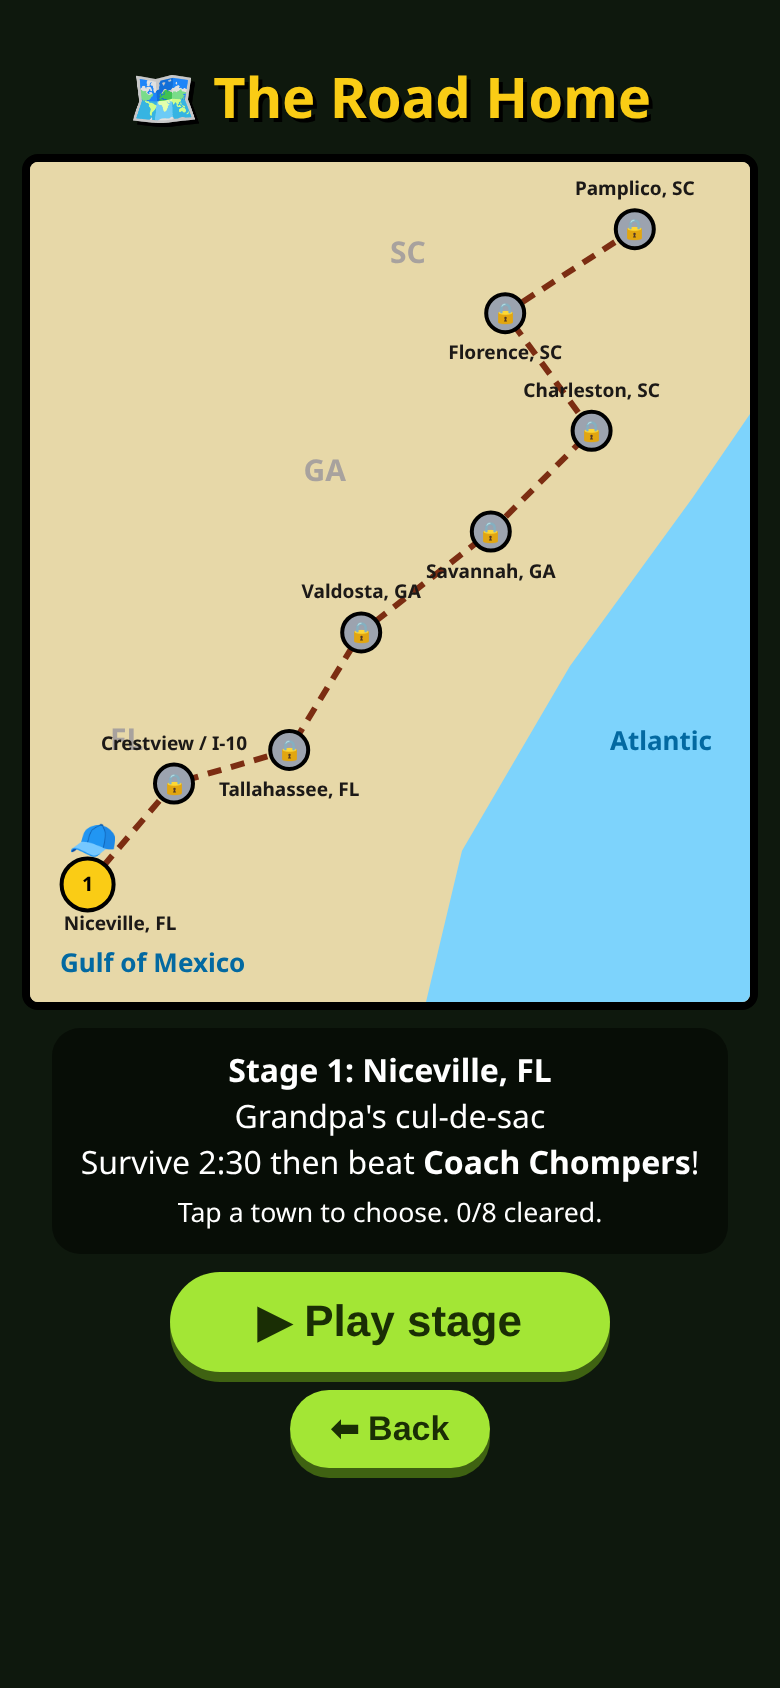
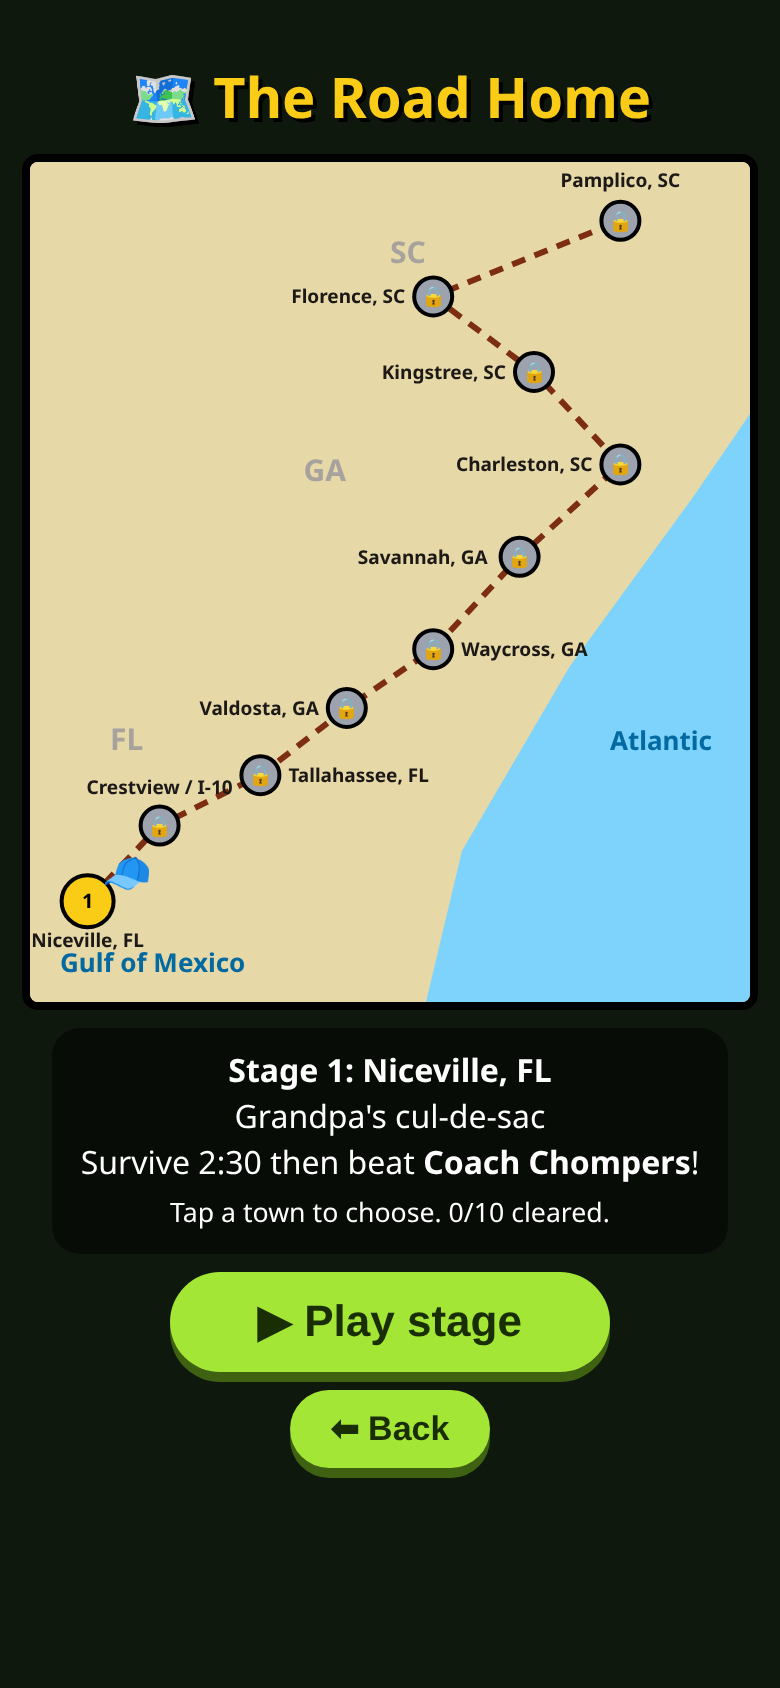
10 stages: add Waycross & Kingstree, save migration, SW v2

diff --git a/game.js b/game.js
@@ -10,6 +10,7 @@ let save=LS.get("save",{coins:0,heroes:["remy"],hero:"remy",shop:{},stage:0,clea
 const persist=()=>LS.set("save",save);
 const DIFF={easy:{n:"🌱 Easy",hp:.7,dmg:.6,spd:.9,sp:.75,coin:1},medium:{n:"🌟 Medium",hp:1,dmg:1,spd:1,sp:1,coin:1.3},hard:{n:"🔥 Hard",hp:1.45,dmg:1.35,spd:1.1,sp:1.25,coin:1.7},brutal:{n:"💀 Brutal",hp:2.1,dmg:1.8,spd:1.2,sp:1.6,coin:2.5}};
 if(!save.diff)save.diff="medium";if(!save.prog)save.prog={};
+if((save.ver||1)<2){const M=[0,1,2,3,5,6,8,9];for(const k in save.prog){const p=save.prog[k],c=p.cleared.map(i=>M[i]);if(c.includes(5))c.push(4);if(c.includes(8))c.push(7);p.cleared=[...new Set(c)];p.stage=M[p.stage]??0}save.ver=2;LS.set("save",save)}
 function prog(){return save.prog[save.diff]||(save.prog[save.diff]={stage:0,cleared:[]})}
 const DF=()=>DIFF[(G&&G.df)||save.diff];
 
@@ -29,14 +30,18 @@ function sfx(n){if(save.mute||!AC)return;const now=performance.now();if(lastS[n]
 
 // ===== Data =====
 const STAGES=[
- {n:"Niceville, FL",s:"Grandpa's cul-de-sac",g:"#3f6b35",d:"#35602d",x:.08,y:.86,boss:"Coach Chompers",tm:150},
- {n:"Crestview / I-10",s:"Traffic jam of the undead",g:"#5b5f55",d:"#4f534a",x:.2,y:.74,boss:"Big Rig Randy",tm:170},
- {n:"Tallahassee, FL",s:"Campus of the Living Dead",g:"#4d7a3a",d:"#426b31",x:.36,y:.70,boss:"Professor Brainsworth",tm:180},
- {n:"Valdosta, GA",s:"Peach orchard panic",g:"#6b7d33",d:"#5d6e2b",x:.46,y:.56,boss:"The Peach Fuzz Monster",tm:190},
- {n:"Savannah, GA",s:"Haunted squares (extra haunted)",g:"#3e5e4a",d:"#344f3e",x:.64,y:.44,boss:"Captain Moss-beard",tm:200},
- {n:"Charleston, SC",s:"Rainbow Row rumble",g:"#4a6b6b",d:"#3f5c5c",x:.78,y:.32,boss:"Shrimp & Grits Goliath",tm:210},
- {n:"Florence, SC",s:"Interstate truck-stop terror",g:"#5a6e3d",d:"#4d5f34",x:.66,y:.18,boss:"Mega Mall Santa",tm:220},
- {n:"Pamplico, SC",s:"HOME. Mom, Dad & Leo are inside!",g:"#3b6e2c",d:"#325e25",x:.84,y:.08,boss:"The Mayor of Zombietown",tm:240}];
+ {n:"Niceville, FL",s:"Grandpa's cul-de-sac",g:"#3f6b35",d:"#35602d",x:.08,y:.88,boss:"Coach Chompers",tm:150,deco:"grave"},
+ {n:"Crestview / I-10",s:"Traffic jam of the undead",g:"#5b5f55",d:"#4f534a",x:.18,y:.79,boss:"Big Rig Randy",tm:160,deco:"road"},
+ {n:"Tallahassee, FL",s:"Campus of the Living Dead",g:"#4d7a3a",d:"#426b31",x:.32,y:.73,boss:"Professor Brainsworth",tm:170,deco:"grave"},
+ {n:"Valdosta, GA",s:"Peach orchard panic",g:"#6b7d33",d:"#5d6e2b",x:.44,y:.65,boss:"The Peach Fuzz Monster",tm:180,deco:"peach"},
+ {n:"Waycross, GA",s:"Okefenokee Swamp stomp",g:"#3a5a3a",d:"#2f4a30",x:.56,y:.58,boss:"Swamp Thang the Gator King",tm:190,deco:"swamp"},
+ {n:"Savannah, GA",s:"Haunted squares (extra haunted)",g:"#3e5e4a",d:"#344f3e",x:.68,y:.47,boss:"Captain Moss-beard",tm:200,deco:"grave"},
+ {n:"Charleston, SC",s:"Rainbow Row rumble",g:"#4a6b6b",d:"#3f5c5c",x:.82,y:.36,boss:"Shrimp & Grits Goliath",tm:210,deco:"rainbow"},
+ {n:"Kingstree, SC",s:"Tobacco barn throwdown",g:"#7a6a3a",d:"#6a5b30",x:.70,y:.25,boss:"The Burger King-stree",tm:220,deco:"barn"},
+ {n:"Florence, SC",s:"Interstate truck-stop terror",g:"#5a6e3d",d:"#4d5f34",x:.56,y:.16,boss:"Mega Mall Santa",tm:230,deco:"road"},
+ {n:"Pamplico, SC",s:"HOME. Mom, Dad & Leo are inside!",g:"#3b6e2c",d:"#325e25",x:.82,y:.07,boss:"The Mayor of Zombietown",tm:240,deco:"grave"}];
+const LAST=STAGES.length-1;
+[[0, 46, "center"], [0, -32, "center"], [28, 7, "left"], [-28, 7, "right"], [28, 7, "left"], [-32, 7, "right"], [-28, 7, "right"], [-28, 7, "right"], [-28, 7, "right"], [0, -34, "center"]].forEach((l,i)=>STAGES[i].lab=l);
 const W8={ // weapons
  chicken:{n:"Rubber Chicken Launcher",i:"🐔",d:"Fires squeaky chickens at the closest zombie.",f:"\"BAWK!\" — Grandpa's secret weapon.",evo:"spicy",en:"Rotisserie Rocket Rooster",ei:"🍗",ef:"Chickens now EXPLODE. Grandpa would be so proud."},
  banana:{n:"Banana Boomerang",i:"🍌",d:"Bananas swing out, smack everything, and come back.",f:"Potassium-powered justice.",evo:"sneakers",en:"Banana Split-nado",ei:"🍨",ef:"Six bananas. Zero chill."},
@@ -82,7 +87,7 @@ function shopLv(k){return save.shop[k]||0}
 function newRun(mode){const h=HEROES[save.hero];const st=mode==="journey"?prog().stage:-1;
  G={mode,stage:st,t:0,kills:0,lvl:1,xp:0,xpN:6,coins:0,shake:0,spawnAcc:0,bossN:0,bossAlive:null,nextBoss:st>=0?STAGES[st].tm:150,won:false,revive:shopLv("rev")>0,
   p:{x:0,y:0,r:14,hp:0,maxHp:h.hp+shopLv("hp")*10,spd:h.spd*(1+shopLv("spd")*.04),armor:h.armor||0,inv:0,face:1,dx:1,dy:0,walk:0},
-  w:{},ps:{},order:[],banner:null,bannerT:0,dmgMul:1+shopLv("dmg")*.06,magBase:1+shopLv("mag")*.15,hero:save.hero,diff:st>=0?1+st*.22:1,df:save.diff};
+  w:{},ps:{},order:[],banner:null,bannerT:0,dmgMul:1+shopLv("dmg")*.06,magBase:1+shopLv("mag")*.15,hero:save.hero,diff:st>=0?1+st*.17:1,df:save.diff};
  G.p.hp=G.p.maxHp;for(const k in ent)ent[k].length=0;addWeapon(h.w);
  G.banner=st>=0?"📍 "+STAGES[st].n:"♾ Endless Mode";G.bannerT=3}
 function stat(){const p=G.ps,h=HEROES[G.hero];return{dmg:G.dmgMul*(1+.12*(p.spicy||0)),spd:1+.1*(p.sneakers||0),mag:70*G.magBase*(1+.35*(p.tinfoil||0)),regen:.5*(p.catfood||0),
@@ -128,17 +133,23 @@ function buildSprites(){
   g.fillStyle="#dc2626";g.beginPath();g.moveTo(c-8,c-2);g.lineTo(c,c-16);g.lineTo(c+8,c-2);g.closePath();g.fill();g.stroke();g.fillStyle="#000";g.fillRect(c-3,c-2,2,2);g.fillRect(c+1,c-2,2,2)});
  // ground tiles per stage
  STAGES.forEach((s,i)=>{const t=document.createElement("canvas");t.width=t.height=160;const g=t.getContext("2d");g.fillStyle=s.g;g.fillRect(0,0,160,160);g.fillStyle=s.d;for(let j=0;j<40;j++){g.fillRect(Math.random()*160,Math.random()*160,3,6)}
-  g.fillStyle="#0002";g.beginPath();g.arc(40,120,9,0,7);g.fill();if(i===1||i===6){g.fillStyle="#ddd8";g.fillRect(0,78,160,4);for(let x=0;x<160;x+=40)g.fillRect(x,40,20,3)}
-  if(i%2===0){g.fillStyle="#9ca3af";g.fillRect(110,30,14,18);g.beginPath();g.arc(117,30,7,Math.PI,0);g.fill();g.fillStyle="#0005";g.fillRect(114,34,6,2)}SPR["g"+i]=t})}
+  g.fillStyle="#0002";g.beginPath();g.arc(40,120,9,0,7);g.fill();const D=s.deco;
+  if(D==="road"){g.fillStyle="#ddd8";g.fillRect(0,78,160,4);for(let x=0;x<160;x+=40)g.fillRect(x,40,20,3)}
+  if(D==="grave"){g.fillStyle="#9ca3af";g.fillRect(110,30,14,18);g.beginPath();g.arc(117,30,7,Math.PI,0);g.fill();g.fillStyle="#0005";g.fillRect(114,34,6,2)}
+  if(D==="peach"){g.fillStyle="#fb923c";for(const[x,y]of[[30,30],[120,100],[70,140]]){g.beginPath();g.arc(x,y,6,0,7);g.fill()}g.fillStyle="#4d7c0f";g.fillRect(118,92,4,4)}
+  if(D==="swamp"){g.fillStyle="#1e3a3a";g.beginPath();g.ellipse(50,50,34,18,0,0,7);g.ellipse(125,125,24,13,0,0,7);g.fill();g.fillStyle="#65a30d";g.beginPath();g.arc(42,46,5,0,7);g.arc(60,55,4,0,7);g.fill();g.strokeStyle="#4b3621";g.lineWidth=3;g.beginPath();g.moveTo(130,20);g.lineTo(130,55);g.moveTo(130,30);g.lineTo(140,22);g.stroke()}
+  if(D==="rainbow"){["#f9a8d4","#fde68a","#a5f3fc","#bbf7d0"].forEach((c,j)=>{g.fillStyle=c+"55";g.fillRect(j*40,0,40,12)})}
+  if(D==="barn"){g.fillStyle="#991b1b";g.fillRect(100,30,34,24);g.beginPath();g.moveTo(96,30);g.lineTo(117,14);g.lineTo(138,30);g.fill();g.fillStyle="#fef3c7";g.fillRect(113,40,8,14);g.fillStyle="#d9b25a";g.fillRect(30,110,18,12)}
+  SPR["g"+i]=t})}
 
 // ===== Spawning =====
 function spawnZ(type,x,y,boss){const z=obtain("z"),T=ZT[type];const sc=G.mode==="journey"?G.diff:1,tm=1+G.t/100;
  const D=DF();Object.assign(z,{type,x,y,r:T.r,hp:T.hp*tm*sc*D.hp*(boss?1+G.bossN*.6:1),spd:T.spd*rnd(.9,1.1)*(type==="boss"?1:Math.min(1.5,1+G.t/900))*D.spd,dmg:T.dmg*(1+G.t/400)*D.dmg,xp:T.xp,flash:0,kx:0,ky:0,slow:0,wob:Math.random()*6,dash:0,dashCd:3,name:boss||""});
  z.max=z.hp;z.hit=z.hit||{};for(const k in z.hit)z.hit[k]=0;ent.z.push(z);return z}
 function spawnTick(dt){const t=G.t;if(G.bossAlive&&ent.z.length>120)return;
- const rate=(1.3+t/14)*(G.mode==="journey"?.85+G.stage*.08:1);G.spawnAcc+=dt*Math.min(rate*DF().sp,36);
+ const rate=(1.3+t/14)*(G.mode==="journey"?.85+G.stage*.062:1);G.spawnAcc+=dt*Math.min(rate*DF().sp,36);
  while(G.spawnAcc>=1&&ent.z.length<330){G.spawnAcc--;const a=Math.random()*7,d=Math.max(W,H)*.62+rnd(0,60);
-  const pool=Object.keys(ZT).filter(k=>ZT[k].t<=t+(G.mode==="journey"?G.stage*15:0));
+  const pool=Object.keys(ZT).filter(k=>ZT[k].t<=t+(G.mode==="journey"?G.stage*11:0));
   let type="shamb";const r=Math.random();if(r<.45)type="shamb";else type=pick(pool);
   if(Math.random()<.004*Math.min(1,t/60)){for(let i=0;i<10;i++)spawnZ(t>80?"dog":"runner",G.p.x+Math.cos(a)*d+rnd(-30,30),G.p.y+Math.sin(a)*d+rnd(-30,30))} // horde!
   spawnZ(type,G.p.x+Math.cos(a)*d,G.p.y+Math.sin(a)*d)}
@@ -309,7 +320,7 @@ function hud(){const p=G.p,top=0;cx.fillStyle="#0009";cx.fillRect(0,top,W,28);cx
  let x=8;cx.font="16px serif";for(const k of G.order){cx.fillText(G.w[k].evo?W8[k].ei:W8[k].i,x,64);x+=22}x=8;cx.font="13px serif";for(const k in G.ps){cx.fillText(PS[k].i,x,84);x+=18}
  if(G.mode==="journey"&&!G.bossAlive&&!G.won){const left=Math.max(0,G.nextBoss-G.t);cx.textAlign="center";cx.font="bold 13px system-ui";cx.fillStyle="#fde68a";cx.fillText("📍 "+STAGES[G.stage].n+" — boss in "+Math.floor(left/60)+":"+String(Math.floor(left%60)).padStart(2,"0"),W/2,H-22)}
  if(G.bossAlive){const b=G.bossAlive;cx.fillStyle="#000a";cx.fillRect(W*.15,96,W*.7,14);cx.fillStyle="#dc2626";cx.fillRect(W*.15+2,98,(W*.7-4)*Math.max(0,b.hp/b.max),10);cx.font="bold 11px system-ui";cx.textAlign="center";cx.fillStyle="#fff";cx.fillText("👑 "+b.name,W/2,103)}
- if(G.bannerT>0){cx.globalAlpha=Math.min(1,G.bannerT);cx.font="900 24px system-ui";cx.textAlign="center";cx.lineWidth=5;cx.strokeStyle="#000";cx.strokeText(G.banner,W/2,H*.3);cx.fillStyle="#facc15";cx.fillText(G.banner,W/2,H*.3);cx.globalAlpha=1}}
+ if(G.bannerT>0){cx.globalAlpha=Math.min(1,G.bannerT);cx.font="900 24px system-ui";cx.textAlign="center";cx.lineWidth=5;cx.lineJoin="round";cx.strokeStyle="#000";cx.strokeText(G.banner,W/2,H*.3);cx.fillStyle="#facc15";cx.fillText(G.banner,W/2,H*.3);cx.globalAlpha=1}}
 
 // ===== Screens =====
 const SCR=["title","comic","map","heroes","shop","lvl","paused","over","board"];
@@ -344,13 +355,13 @@ function drawMap(){const c=$("mapC"),g=c.getContext("2d"),w=c.width,h=c.height;g
  g.fillStyle="#7dd3fc";g.beginPath();g.moveTo(0,h);g.lineTo(w*.55,h);g.lineTo(w*.6,h*.82);g.lineTo(w*.75,h*.6);g.lineTo(w*.92,h*.4);g.lineTo(w,h*.3);g.lineTo(w,h);g.fill();
  g.font="bold 26px system-ui";g.fillStyle="#0369a1";g.fillText("Gulf of Mexico",30,h-30);g.fillText("Atlantic",w-140,h*.7);g.fillStyle="#a8a29e";g.font="bold 30px system-ui";g.fillText("FL",80,h*.7);g.fillText("GA",w*.38,h*.38);g.fillText("SC",w*.5,h*.12);
  g.setLineDash([14,10]);g.lineWidth=6;g.strokeStyle="#7c2d12";g.beginPath();STAGES.forEach((s,i)=>{const x=s.x*w,y=s.y*h;i?g.lineTo(x,y):g.moveTo(x,y)});g.stroke();g.setLineDash([]);
- const cur=prog().stage;STAGES.forEach((s,i)=>{const x=s.x*w,y=s.y*h,done=prog().cleared.includes(i),open=i<=Math.min(7,maxOpen());g.fillStyle=done?"#22c55e":open?"#facc15":"#9ca3af";g.strokeStyle="#000";g.lineWidth=4;g.beginPath();g.arc(x,y,i===cur?26:19,0,7);g.fill();g.stroke();
-  g.fillStyle="#000";g.font="bold 20px system-ui";g.textAlign="center";g.fillText(done?"✓":open?(i+1):"🔒",x,y+7);g.font="bold 19px system-ui";g.fillStyle="#1c1917";const lx=Math.min(w-90,Math.max(90,x));g.fillText(s.n,lx,y+(i%2?-34:46))});
- g.textAlign="left";g.font="40px serif";const s=STAGES[cur];g.fillText(i7(),s.x*w-20,s.y*h-30)}
+ const cur=prog().stage;STAGES.forEach((s,i)=>{const x=s.x*w,y=s.y*h,done=prog().cleared.includes(i),open=i<=Math.min(LAST,maxOpen());g.fillStyle=done?"#22c55e":open?"#facc15":"#9ca3af";g.strokeStyle="#000";g.lineWidth=4;g.beginPath();g.arc(x,y,i===cur?26:19,0,7);g.fill();g.stroke();
+  g.fillStyle="#000";g.font="bold 20px system-ui";g.textAlign="center";g.fillText(done?"✓":open?(i+1):"🔒",x,y+7);g.font="bold 19px system-ui";g.fillStyle="#1c1917";g.textAlign=s.lab[2];g.fillText(s.n,x+s.lab[0],y+s.lab[1])});
+ g.textAlign="left";g.font="40px serif";const s=STAGES[cur];g.fillText(i7(),s.x*w+14,s.y*h-14)}
 const i7=()=>HEROES[save.hero].i;
 function maxOpen(){return prog().cleared.length?Math.max(...prog().cleared)+1:0}
-function openMap(){prog().stage=Math.min(prog().stage,maxOpen(),7);show("map");state="map";drawMap();const s=STAGES[prog().stage];
- $("mapInfo").innerHTML=`<b>Stage ${prog().stage+1}: ${s.n}</b><br>${s.s}<br>Survive ${Math.floor(s.tm/60)}:${String(s.tm%60).padStart(2,"0")} then beat <b>${s.boss}</b>!<br><small>Tap a town to choose. ${prog().cleared.length}/8 cleared.</small>`}
+function openMap(){prog().stage=Math.min(prog().stage,maxOpen(),LAST);show("map");state="map";drawMap();const s=STAGES[prog().stage];
+ $("mapInfo").innerHTML=`<b>Stage ${prog().stage+1}: ${s.n}</b><br>${s.s}<br>Survive ${Math.floor(s.tm/60)}:${String(s.tm%60).padStart(2,"0")} then beat <b>${s.boss}</b>!<br><small>Tap a town to choose. ${prog().cleared.length}/${STAGES.length} cleared.</small>`}
 $("mapC").onclick=e=>{const r=e.target.getBoundingClientRect(),x=(e.clientX-r.left)/r.width,y=(e.clientY-r.top)/r.height;let b=-1,bd=.01;STAGES.forEach((s,i)=>{const d=(s.x-x)**2+(s.y-y)**2;if(d<bd){bd=d;b=i}});if(b>=0&&b<=maxOpen()){prog().stage=b;persist();sfx("boing");openMap()}};
 $("journeyB").onclick=()=>{ac();if(!save.seenIntro){comic(INTRO,()=>{save.seenIntro=true;persist();openMap()})}else openMap()};
 $("storyB").onclick=()=>{ac();comic(INTRO,()=>{save.seenIntro=true;persist();goTitle()})};
@@ -358,7 +369,7 @@ $("mapGo").onclick=()=>startRun("journey");$("mapBack").onclick=goTitle;$("endle
 $("muteB").onclick=()=>{save.mute=!save.mute;persist();ac();goTitle()};
 
 function renderDiff(){const r=$("diffRow");r.innerHTML="";for(const k in DIFF){const b=document.createElement("button");b.className="btn sm"+(save.diff===k?"":" dim");b.dataset.d=k;b.textContent=DIFF[k].n;b.onclick=()=>{save.diff=k;persist();sfx("boing");goTitle()};r.appendChild(b)}
- $("diffInfo").textContent="Coins x"+DIFF[save.diff].coin+" • Journey: "+prog().cleared.length+"/8 towns cleared"}
+ $("diffInfo").textContent="Coins x"+DIFF[save.diff].coin+" • Journey: "+prog().cleared.length+"/"+STAGES.length+" towns cleared"}
 // heroes & shop
 function renderHeroes(){const l=$("heroList");l.innerHTML="";for(const k in HEROES){const h=HEROES[k],own=save.heroes.includes(k);const d=document.createElement("div");d.className="hero"+(save.hero===k?" sel":"");
  d.innerHTML=`<div style="font-size:38px">${h.i}</div><div style="flex:1"><b style="color:#facc15">${h.n}</b><br><small>${h.d}<br>❤ ${h.hp} • 👟 ${h.spd} • starts with ${W8[h.w].i}</small></div>`;const b=document.createElement("button");b.className="btn sm"+(own?"":" alt");
@@ -372,7 +383,7 @@ $("heroB").onclick=()=>{renderHeroes();show("heroes")};$("heroBack").onclick=goT
 let pendingScore=null;
 function score(){return Math.floor(G.t)*10+G.kills*2+G.lvl*50}
 function endRun(won,quit){if(state==="over")return;state="over";$("pauseB").classList.add("hidden");const earned=Math.round((G.coins+Math.floor(G.kills/15*stat().coin)+(won?50+G.stage*20:0))*DF().coin);save.coins+=earned;
- let finale=false;if(won&&G.mode==="journey"){if(!prog().cleared.includes(G.stage))prog().cleared.push(G.stage);if(G.stage===7)finale=true;else prog().stage=Math.max(prog().stage,G.stage+1)}persist();
+ let finale=false;if(won&&G.mode==="journey"){if(!prog().cleared.includes(G.stage))prog().cleared.push(G.stage);if(G.stage===LAST)finale=true;else prog().stage=Math.max(prog().stage,G.stage+1)}persist();
  const mm=Math.floor(G.t/60),ss=String(Math.floor(G.t%60)).padStart(2,"0");const sc=score();
  $("overT").textContent=won?"STAGE CLEARED! 🎉":quit?"Run abandoned 🏳":pick(["GOO'D GAME 💀","YOU GOT NOMMED 🧟","BRAAAINS... yours. 🧠"]);
  $("overSub").textContent=won?(finale?"You made it HOME!":"Next stop: "+STAGES[G.stage+1].n):pick(["The zombies say thanks for the snack.","Grandpa believes in you. Try again!","Leo is still waiting! Get back out there."]);

diff --git a/index.html b/index.html
@@ -52,8 +52,8 @@ table{border-collapse:collapse;font-size:14px;background:#0007;border-radius:12p
 <div id="ini" class="hidden"><p><b>🎉 Top 10! Pick your initials</b></p><div id="iniCols"></div><br><button class="btn" id="iniSave">✔ Save</button></div>
 <div id="overBoard"></div><div id="overBtns" style="display:flex;flex-direction:column;gap:10px;align-items:center"><button class="btn" id="againB">🔁 Again</button><button class="btn sm alt" id="homeB">🏠 Home</button></div></div>
 <div class="screen hidden" id="board"><h2 id="boardTitle">🏆 Top 10</h2><div id="boardList"></div><button class="btn sm" id="boardBack">⬅ Back</button></div>
-<script src="game.js?v=1"></script>
-<script>if('serviceWorker'in navigator&&location.protocol!=='file:')navigator.serviceWorker.register('sw.js?v=1');
+<script src="game.js?v=2"></script>
+<script>if('serviceWorker'in navigator&&location.protocol!=='file:')navigator.serviceWorker.register('sw.js?v=2');
 let deferredPrompt=null;const ib=document.getElementById("installBtn"),hp=document.getElementById("installHelp");
 const standalone=()=>matchMedia("(display-mode: standalone)").matches||matchMedia("(display-mode: fullscreen)").matches||navigator.standalone;
 if(standalone())ib.classList.add("hidden");

diff --git a/sw.js b/sw.js
@@ -1,5 +1,5 @@
-const VER="1",CACHE="remysurv-v"+VER;
-const SHELL=["./","index.html","game.js?v=1","manifest.webmanifest","icons/icon-192.png","icons/icon-512.png","icons/maskable-512.png"];
+const VER="2",CACHE="remysurv-v"+VER;
+const SHELL=["./","index.html","game.js?v=2","manifest.webmanifest","icons/icon-192.png","icons/icon-512.png","icons/maskable-512.png"];
 self.addEventListener("install",e=>{e.waitUntil(caches.open(CACHE).then(c=>c.addAll(SHELL.map(u=>new Request(u,{cache:"reload"})))).then(()=>self.skipWaiting()))});
 self.addEventListener("activate",e=>{e.waitUntil(caches.keys().then(ks=>Promise.all(ks.filter(k=>k.startsWith("remysurv-")&&k!==CACHE).map(k=>caches.delete(k)))).then(()=>self.clients.claim()))});
 self.addEventListener("fetch",e=>{const r=e.request;if(r.method!=="GET"||new URL(r.url).origin!==location.origin)return;
